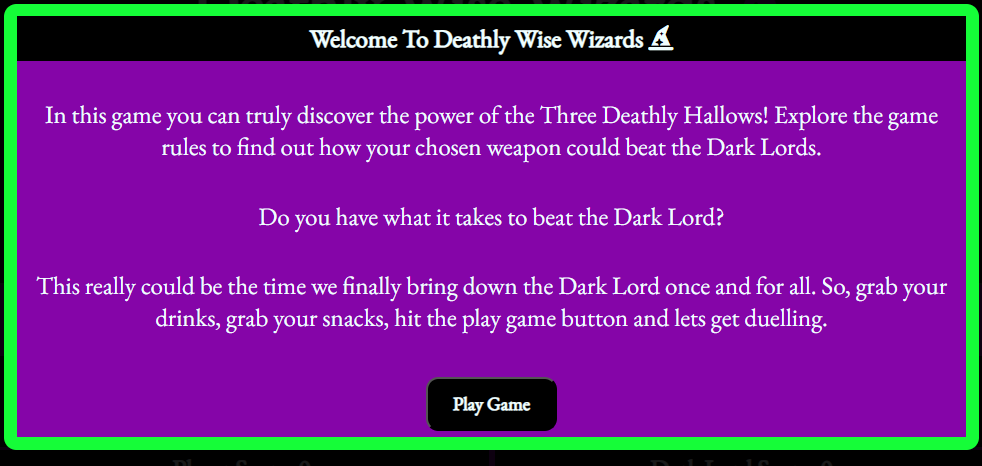
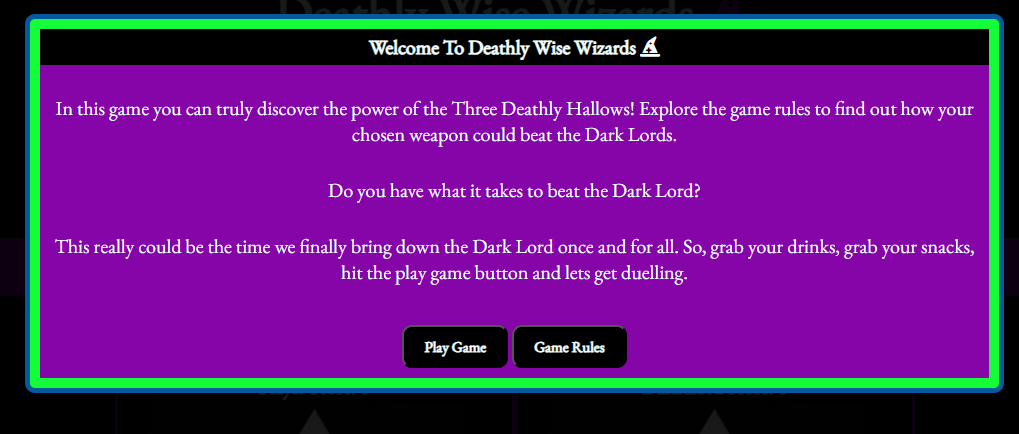
Add new image screenshots for readme

diff --git a/assets/css/style.css b/assets/css/style.css
@@ -236,7 +236,7 @@ https://www.w3schools.com/howto/howto_css_modals.asp */
     padding: 10px;
     margin: 0 auto;
     border-radius: 10px;
-    border: 5px solid rgb(4, 90, 156)
+    border: 5px solid #045a9c
 }
 
 /* descriptive word describing what beats what */

diff --git a/README.md b/README.md
@@ -106,7 +106,7 @@ Deathly Wise Wizards is a game very much like rock, paper, scissors. However, th
 
 ![Colours](/documentation/design/colours.png)
 
-I used a small amount of solid block colours which I ran through the [Eight Shapes Contrast Grid](https://contrast-grid.eightshapes.com/?version=1.1.0&background-colors=&foreground-colors=%23F0FFFF%0D%0A%23000000%0D%0A%238505A8%0D%0A%2315FD38&es-color-form__tile-size=regular&es-color-form__show-contrast=aaa&es-color-form__show-contrast=aa&es-color-form__show-contrast=aa18&es-color-form__show-contrast=dnp) to make sure the contrast was acceptable and easy to read.
+I used a small amount of solid block colours which I ran through the [Eight Shapes Contrast Grid](https://contrast-grid.eightshapes.com/?version=1.1.0&background-colors=&foreground-colors=%23F0FFFF%0D%0A%23000000%0D%0A%238505A8%0D%0A%2315FD38%0D%0A%23045a9c&es-color-form__tile-size=regular&es-color-form__show-contrast=aaa&es-color-form__show-contrast=aa&es-color-form__show-contrast=aa18&es-color-form__show-contrast=dnp) to make sure the contrast was acceptable and easy to read.
 
 ### Typography
 
@@ -157,6 +157,10 @@ The main game page is a simple design but with everything the user will need to 
 The Game rules button is an important feature as it opens up a modal which explains everything you need to know to win.
 
 ![Game Rules Button](/documentation/design/game-rules-button.png)
+
+The game rules button also features in the page load modal, this way the user can study the rules prior to entering the game.
+
+![Game Rules Button inside page load modal](/documentation/design/play-game-game-rules.png)
 
 #### Game Rules Modal
 
@@ -218,6 +222,14 @@ It's vital to make websites as accessible and easy to follow as poss
 * Using a colour contrast that is easy to see
 
 I also used [Wave - Web accessibility evaluation tools](https://wave.webaim.org/) to make sure I had no errors regarding colour contrast and aria labels.
+
+### Future Implementations
+
+In the future I would like to add the following features:
+
+* Add a score cap of 10 with winning/losing modals
+* Add a enter a username and use it to replace (player score)
+* Add an option for themed sound effects and background music   
 
 
 ## **Technologies Used**
@@ -296,9 +308,12 @@ The following issues were raised during my mid-way project mentor meeting:
 
 ### W3C Validator 
 
-* [Index Page HTML](/documentation/testing/w3c-html-validation.png)
-* [Style.css CSS Jigsaw](/documentation/testing/css-jigsaw-validation.png)
-* [JSHint](/documentation/testing/jshint-validator.png)
+**HTML Validation**
+* ![Index Page HTML](/documentation/testing/w3c-html-validation.png)
+**CSS Validation**
+* ![Style.css CSS Jigsaw](/documentation/testing/css-jigsaw-validation.png)
+**JSHint Validation**
+* ![JSHint](/documentation/testing/jshint-validator.png)
 
 1. The HTML passed through the W3C validator with no errors.
 2. The CSS passed through the jigsaw validator with no errors.
